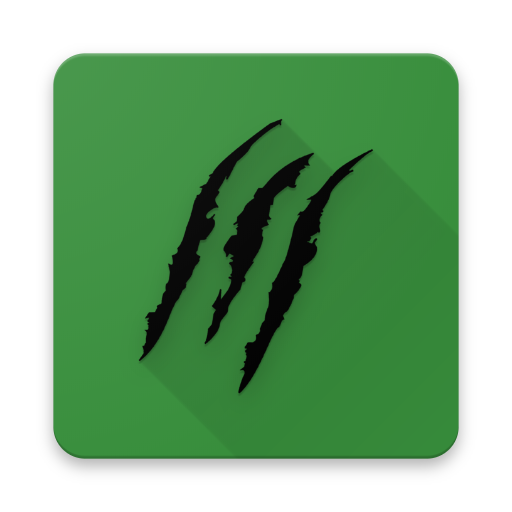
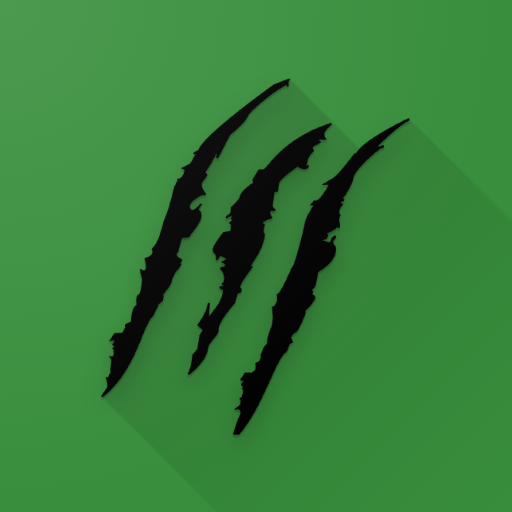
style fixes on ios
also updated android webicon and did a build

diff --git a/src/components/screens/beasts/details/index.js b/src/components/screens/beasts/details/index.js
@@ -2,7 +2,7 @@ import React from 'react';
 import PropTypes from 'prop-types';
 import { View, ScrollView, Text } from 'react-native';
 import r from 'rnss';
-import { Divider } from 'react-native-elements';
+import { Divider, Badge } from 'react-native-elements';
 import { B, I, BI } from '../../../shared/helper';
 
 import { fontSizeMedium, fontSizeLarge, fontSizeXLarge } from '../../../../api/constants';
@@ -70,14 +70,9 @@ export default class BeastDetailsScreen extends React.Component {
 			`,
 			text: `c ${theme.textColor}`,
 			environments: 'f 1; fd row; flex-wrap wrap',
-			environment: `
-				fs ${fontSizeMedium}
-				bc ${theme.formButtonColor}
-				c #fff
-				border-radius 1000
-				p 5 10
-				m 5 5 5 0
-			`
+			environmentContainer: 'm 5 5 5 0',
+			environment: `bc ${theme.formButtonColor}; h auto; br 1000`,
+			environmentText: `fs ${fontSizeMedium}; p 5 10`
 		});
 	}
 
@@ -171,7 +166,13 @@ export default class BeastDetailsScreen extends React.Component {
 							<Text style={styles.header2}>Environments</Text>
 							<View style={styles.environments}>
 								{beast.environments.map(env => (
-									<Text key={env} style={styles.environment}>{env}</Text>
+									<Badge
+										key={env}
+										containerStyle={styles.environmentContainer}
+										badgeStyle={styles.environment}
+										value={env}
+										textStyle={styles.environmentText}
+									/>
 								))}
 							</View>
 						</>

diff --git a/src/components/screens/beasts/list/header.js b/src/components/screens/beasts/list/header.js
@@ -74,7 +74,10 @@ export const ExtendedHeader = ({ navigation, screenProps }) => {
 		`,
 		menuItemText: `c ${theme.textColor}; fw bold`,
 		extraMargin: 'm 0 11',
-		picker: `c ${theme.textColor}; b 1 solid ${theme.textColorSecondary}; br 4;`,
+		picker: `
+			c ${theme.textColor}
+			${Platform.OS === 'ios' ? `border-color ${theme.textColorSecondary}` : `b 1 solid ${theme.textColorSecondary}; br 4;`}
+		`,
 		pickerLabel: 'pb 0',
 		filterContainer: `
 			f 1

diff --git a/README.md b/README.md
@@ -9,7 +9,7 @@ Features:
 * Favorite beasts for quick access
 * Homebrew beast creator
 * Track multiple characters
-* Filter beast list based on if you've seen them, or their movement types
+* Filter beast list based on if you've seen them, their movement types, or their environment
 
 ## Links
 * [Android](https://play.google.com/store/apps/details?id=com.adpyke.druidshape)
